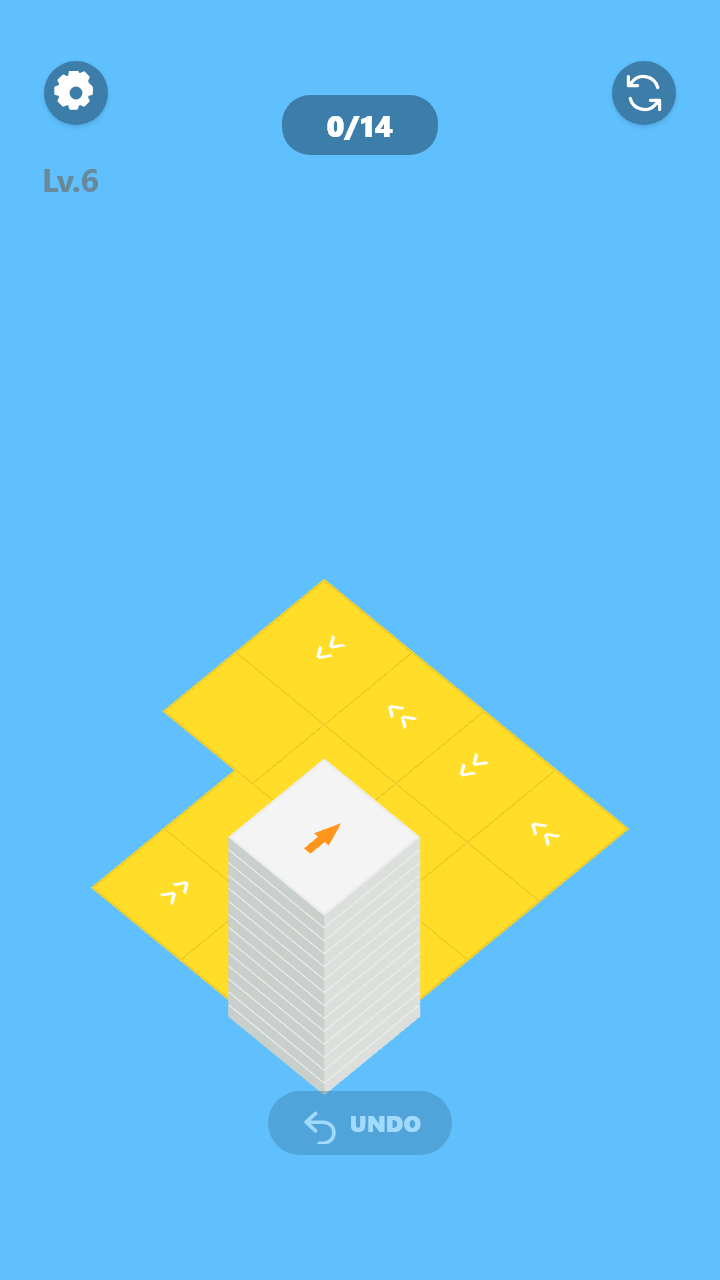
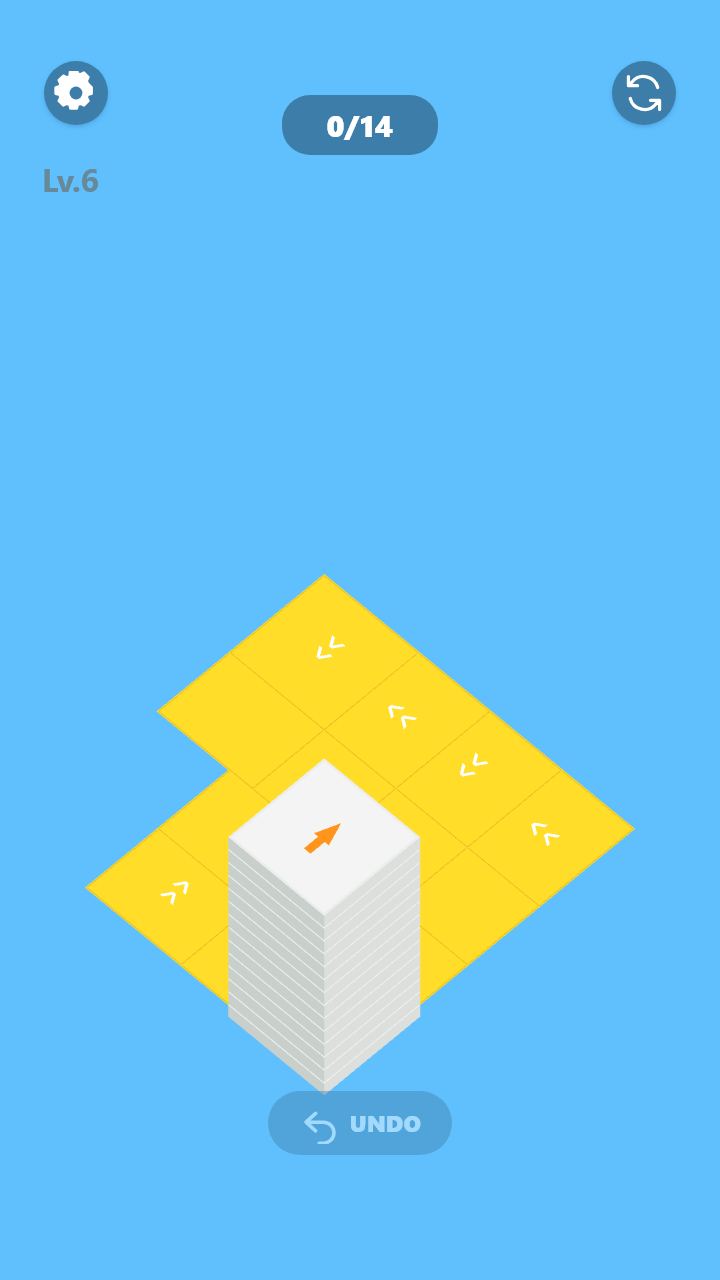
Match revealed floor to tile footprint

diff --git a/tests/render-projection.test.js b/tests/render-projection.test.js
@@ -48,7 +48,7 @@ test('projection fits sparse, ring and dense reference levels with calibrated sc
   assert.ok(new Set(scales).size > 1);
   assert.ok(CAMERA_PITCH < 1);
   assert.ok(TILE_RADIUS > TILE_STEP, 'white tiles overlap the grid pitch to close visual gaps');
-  assert.ok(FLOOR_RADIUS > TILE_STEP, 'revealed floor diamonds meet across adjacent cells');
+  assert.equal(FLOOR_RADIUS, TILE_RADIUS, 'revealed floor matches the white tile footprint');
 });
 
 test('procedural tile and arrow geometry is reusable and non-empty in every direction', () => {

diff --git a/src/render/projection.ts b/src/render/projection.ts
@@ -6,7 +6,7 @@ export const TILE_STEP = 72;
 // while keeping the portrait framing and logical grid coordinates intact.
 export const CAMERA_PITCH = 0.82;
 export const TILE_RADIUS = 96;
-export const FLOOR_RADIUS = 90;
+export const FLOOR_RADIUS = TILE_RADIUS;
 export const TILE_SIDE_DEPTH = 14;
 export const LAYER_RISE = 0.22 * TILE_STEP;
 export const MAX_PROJECTION_SCALE = 1.33;

diff --git a/docs/reviews/visual-slice.md b/docs/reviews/visual-slice.md
@@ -35,7 +35,7 @@
 
 ## Повторная калибровка по отзыву владельца — 2026-10-09
 
-Владелец отметил чрезмерные промежутки между плитками, слабый объём и неподходящий ракурс. Исправлена именно сетка: шаг центров уменьшен с 80 до 72 логических пикселей, радиус белой плитки составляет 96 px; открытый жёлтый пол получил радиус 90 px. Камера получила фиксированное вертикальное сжатие 0.82, при этом расчёт масштаба учитывает наклон. Высота слоя увеличена до 17.6 px, боковая грань — до 14 px. Тот же camera transform учтён в hit-test, поэтому клики и касания остаются привязаны к нарисованным плиткам. Калибровка применяется в WebGL и Canvas 2D.
+Владелец отметил чрезмерные промежутки между плитками, слабый объём и неподходящий ракурс. Исправлена именно сетка: шаг центров уменьшен с 80 до 72 логических пикселей, радиус внешнего контура белой плитки и жёлтого пола выровнен на 96 px. Камера получила фиксированное вертикальное сжатие 0.82, при этом расчёт масштаба учитывает наклон. Высота слоя увеличена до 17.6 px, боковая грань — до 14 px. Тот же camera transform учтён в hit-test, поэтому клики и касания остаются привязаны к нарисованным плиткам. Калибровка применяется в WebGL и Canvas 2D.
 
 Новые WebGL-кадры 720×1280: [R01](visual/R01-calibrated-webgl-2026-10-09.png), [R06](visual/R06-calibrated-webgl-2026-10-09.png), [R07](visual/R07-calibrated-webgl-2026-10-09.png), [R08](visual/R08-calibrated-webgl-2026-10-09.png). Это проверка реакции на конкретный отзыв, а не подтверждение всех допусков TASK-0013: повторные маски/overlays/difference maps и визуальная приёмка владельца ещё не выполнены. Статус остаётся `review`.
 
